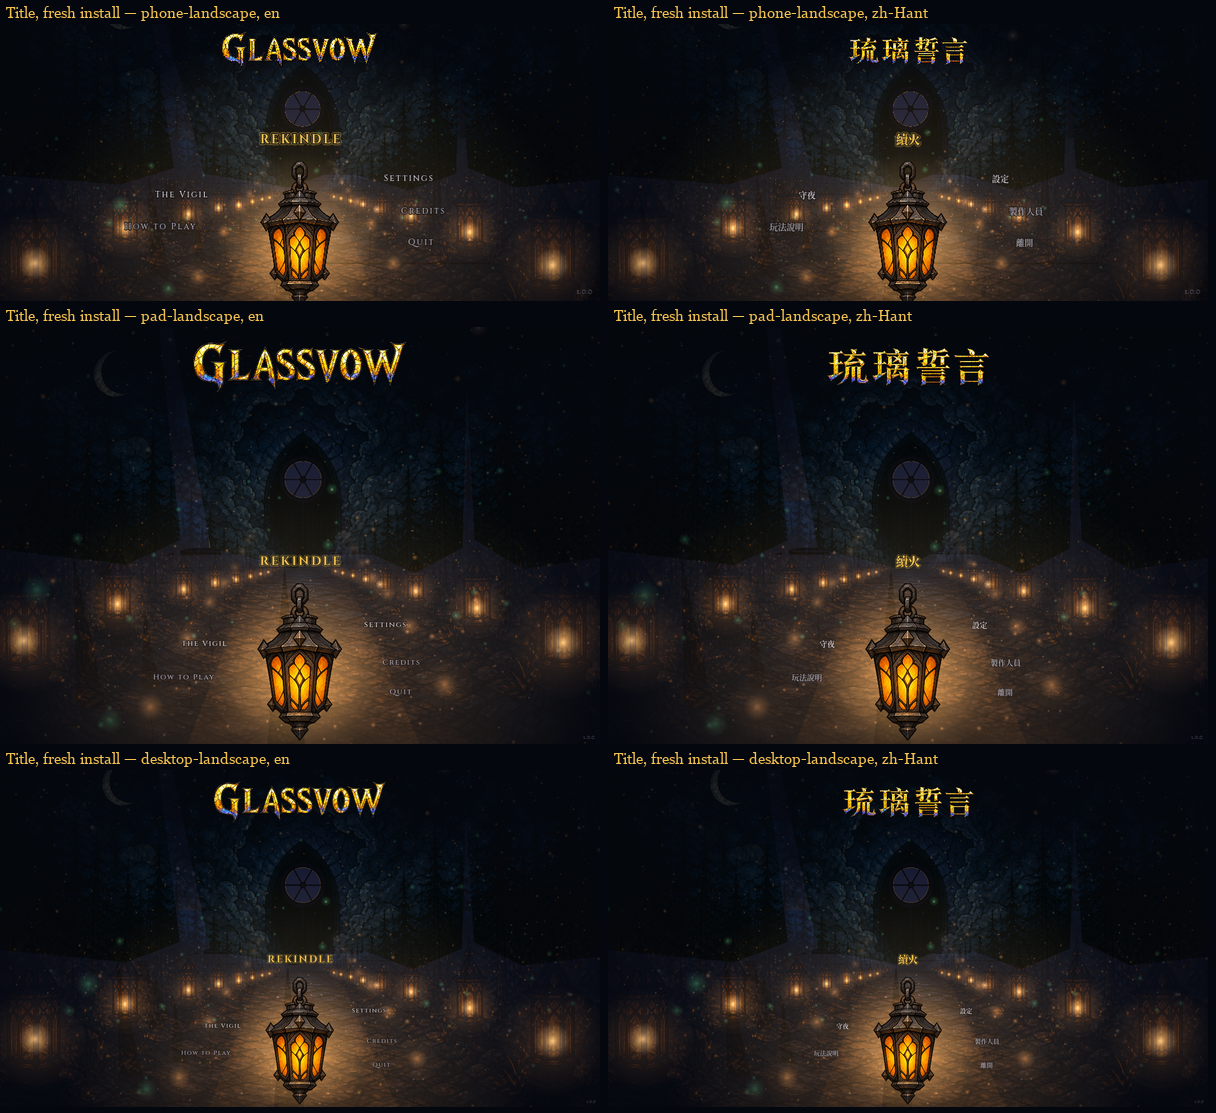
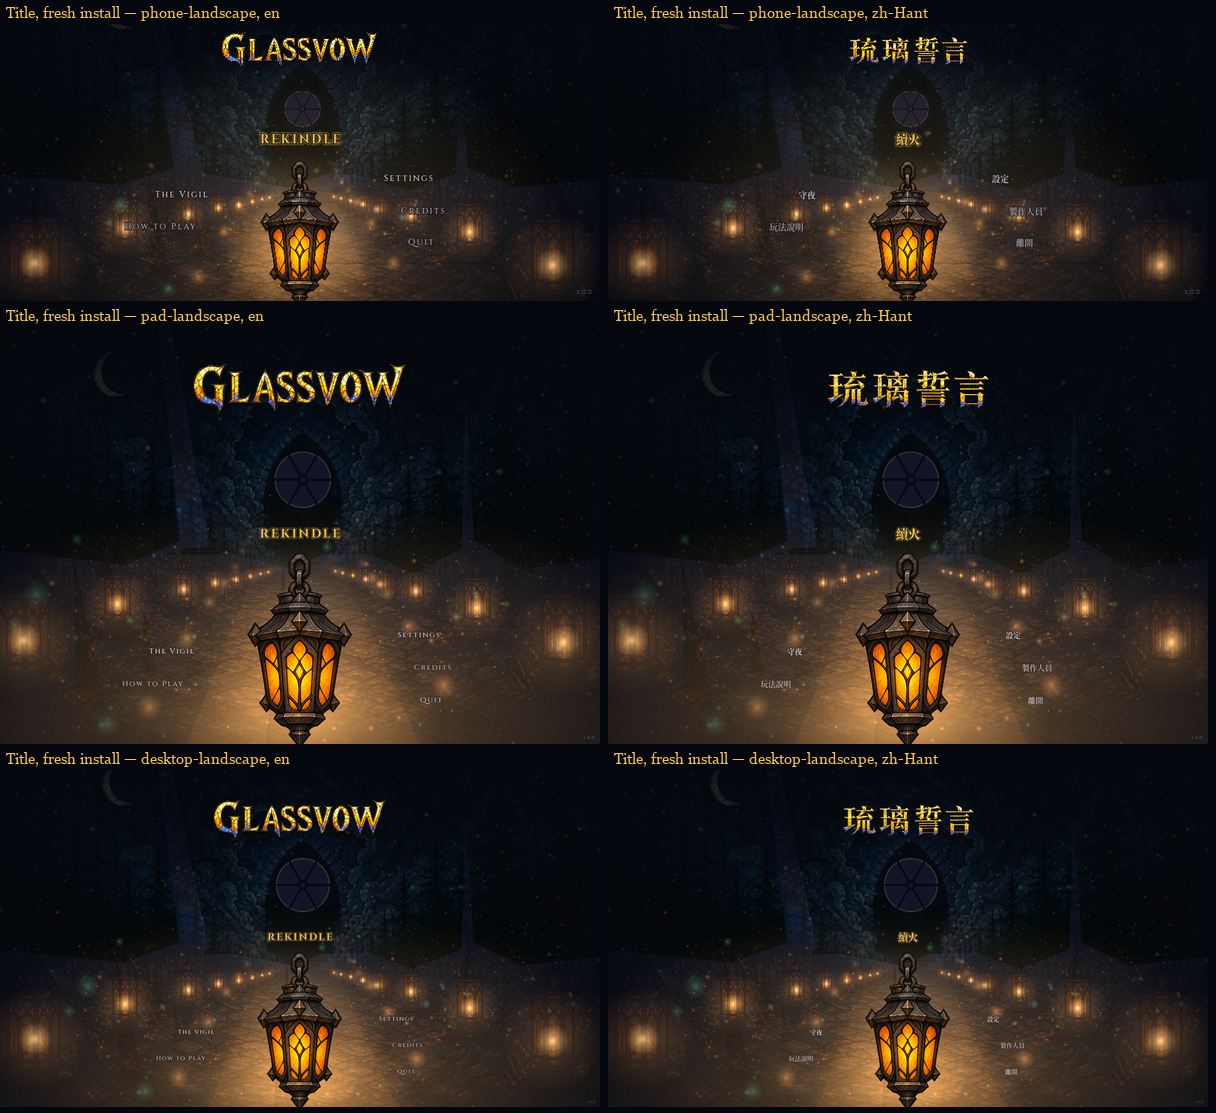
feat(title): on pad and desktop the lantern is the largest thing on stage
Orchestrator polish round; phone unchanged. The hero lantern grows to
~46% of the stage height with its wick still at 0.918 (the register.py
set-out and the splash registration hold); the wordmark sits at 8%, the
door's rose grows 1.5× and its held panes read lit (LeadlightRose
radiance and halo); the plaque stands on the lantern's ring and the six
words flank its glass; a wider, stronger pool colours the road in the
flame's light and breathes on it; the deeds are carved at 14 px, gold at
55%, with a groove, lying on the flagstones toward the vanishing point.
The no-overlap test holds the carved slabs too, at every shape in both
languages. The splash is re-rendered from the new frame 0 (the ember sits
8 px higher). Stills, rite strip and idle burst re-taken; README §16.6.

Claude-Session: https://claude.ai/code/session_01HPnCD3zFM7qazJmHdVbH6K

diff --git a/docs/design/2026-10-02-opening-start/README.md b/docs/design/2026-10-02-opening-start/README.md
@@ -568,3 +568,39 @@ confirmation on the iPad 8 remains the way to close P2.
 6. **Follow-ups outside this lane:** `LayoutBook`'s `titlescreen/*` keys are
    now unused data; the shipped `ui.brand.stats` reads "I pilgrimages" at a
    count of one (a plural the copy never had).
+
+### 16.6 Polish round — pad and desktop (orchestrator review)
+
+Phone was accepted as is and is unchanged. On pad-landscape and
+desktop-landscape:
+
+- **The lantern is the largest thing on the stage**: its box grows 340 →
+  420 stage px, so the lantern stands ~46% of the stage height (the review
+  read it at ~22% before; its art measured ~36%, cropped at the foot). Its wick stays at 0.918 of the height, so the
+  `register.py` set-out and the splash registration hold; the light pool
+  scales with it.
+- **The vertical axis spans the frame**: the wordmark at 8% from the top, the
+  door's rose 1.5× (`Layout.rose_grow` 1.95 against the phone's 1.3), the
+  plaque standing on the lantern's ring, the six words flanking its glass.
+- **The rose's held panes read lit**: `LeadlightRose.radiance` brightens them
+  and adds a warm halo that grows with the shards held; the phone keeps 0.
+- **The flame colours the road**: a wider, lower, stronger pool
+  (`LeadlightLantern.set_pool`, core 0.8, breath ±9%), draw-only.
+- **The deeds are carved**: the carved role (14 px, gold at 55%) with a dark
+  groove so it reads on busy stone, lying on the flagstones and leaning
+  toward the road's vanishing point. Slab boxes now fit their text.
+- The no-overlap test now holds the carved slabs too, at all three shapes in
+  both languages.
+- **Frame 0 moved by 8 px** (the larger lantern's ember), so the splash is
+  re-rendered from it; the ember now lands at 0.896 of the height on pad
+  and 0.894 on phone.
+- **Cost**: CPU render p95 at rest, interleaved A/B against the previous head
+  on identical fresh profiles: phone 0.165–0.169 ms against 0.165–0.174 ms,
+  pad 0.174–0.176 ms against 0.170–0.173 ms (+0.003 ms, inside the run-to-run
+  spread). (A first reading looked twice as high; the lane's dev profile then
+  held a scenario's saved run and three lit shards, so like was not compared
+  with like.)
+
+Re-taken: `stills/title-fresh.png`, `title-saved.png`, `title-vigil.png`,
+`first-launch.png`, `settings.png`, `rite.png`, `idle-motion.png` (title at
+rest now changes 11.7 / 4.7 % of its pixels per second).
